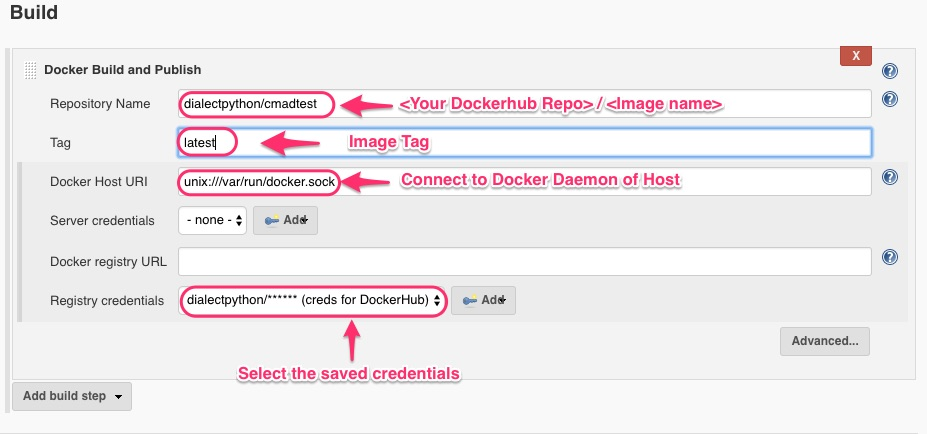
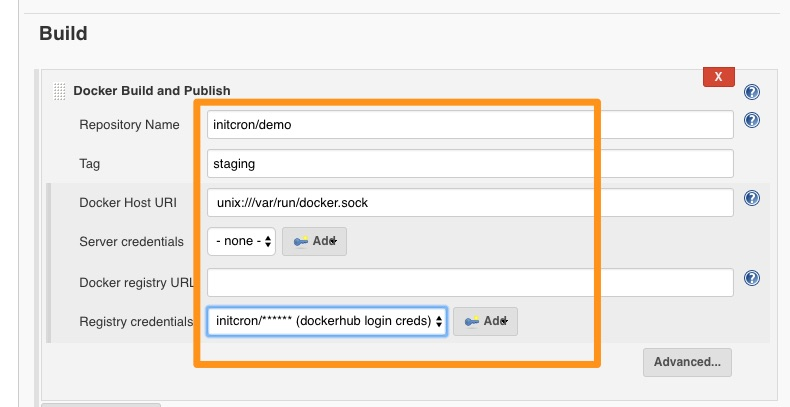
updated docker image build

diff --git a/continuous-delivery/chapters/120_create_docker_image.md b/continuous-delivery/chapters/120_create_docker_image.md
@@ -15,52 +15,20 @@ Now our application is ready to be used as a result of successful Package job ru
 
 * After installing that plugin, go to `Credentials => global(global domain) => Add credentials => fill in the details
 
-![creds](images/docker-image/cred1.jpg)
+![creds](images/docker-image/cred1.png)
 
-![creds](images/docker-image/cred2.jpg)
+![creds](images/docker-image/cred2.png)
 
-![creds](images/docker-image/cred3.jpg)
+![creds](images/docker-image/cred3.png)
 
 ![creds](images/docker-image/creds4.jpg)
 
 * Now go back to Jenkins Main Page
 
 
-### Pre Requisite 2 - Write the Dockerfile
+### Pre Requisite 2 - Dockerfile
 
 * You should have created a Dockerfile by now which should be part of the application source code.
-* A sample Dockerfile is as follows
-
-```
-FROM schoolofdevops/voteapp-mvn:v0.1.0
-
-USER root
-
-WORKDIR /code
-
-ADD pom.xml /code/pom.xml
-RUN ["mvn", "dependency:resolve"]
-RUN ["mvn", "verify"]
-
-# Adding source, compile and package into a fat jar
-ADD src/main /code/src/main
-RUN ["mvn", "package"]
-RUN chmod a+rwx target/cmad-advanced-staging-demo-fat.jar
-
-CMD ["java", "-jar", "target/cmad-advanced-staging-demo-fat.jar", "-cluster"]
-```
-
-`What this Dockerfile does?`
-
-```
-Short Answer:
-  This Dockerfile creates a Docker image which has the source code, packaged application and command which will be executed at the start of a container
-```
-
-```
-Long Answer:
-  This Dockerfile uses a custom Docker image (voteapp-mvn) as base. Then we copy the source code. After that we run couple of Maven (dependency resolve and package) commands to get the package. Finally we run java -jar application.jar to get our application up and running.
-```
 
 ## Create "Build Docker Image" Job
 
@@ -70,16 +38,17 @@ Long Answer:
 
 ```
 eg:
-https://github.com/initcron/CI-Vertx.git
+https://github.com/initcron/demo.git
 ```
 
-* In *Build Trigger*, add **Unit Test** as a trigger.
+[Replace the above with your own repo URI]
 
-![repo](images/docker-image/repo.jpg)
+* In *Build Trigger*, add the previous job e.g. **Static Analysis** as a trigger.
+
 
 * Click on apply project for now.
 
-## Let's Build the Image
+## Build and Publish Docker Image
 
 * This job has one *Build step*.
 
@@ -88,8 +57,11 @@ https://github.com/initcron/CI-Vertx.git
 ![docker-plugin](images/docker-image/docker-plugin.jpg)
 
 * Add the following details in the fields.
-
+  * Repository Name (e.g. username/repo)
+  * Tag (e.g. staging)
+  * Docker Host URI :  unix:///var/run/docker.sock
 ![docker-plugin](images/docker-image/docker-plugin2.jpg)
+
 
 * Then click on **Save**.
 

diff --git a/continuous-delivery/chapters/020_install_jenkins.md b/continuous-delivery/chapters/020_install_jenkins.md
@@ -22,7 +22,7 @@ After installing docker, pull our Jenkins docker image from [docker hub](https:/
 This is the simplest way of installing Jenkins and requires minimal efforts.
 
 ```
-docker run -idt --name jenkins  -v /var/run/docker.sock:/var/run/docker.sock  -p 8080:8080 -p 50000:50000 schoolofdevops/jenkins:2.19.4-deb-v2
+docker run -idt --name jenkins  -v /var/run/docker.sock:/var/run/docker.sock  -p 8080:8080 -p 50000:50000 schoolofdevops/jenkins:2.19.4-deb-v3
 ```
 
 If you install it using the instructions above, find out the IP address and go to http://YOUR_IP_ADDRESS:8080 to access jenkins UI.
